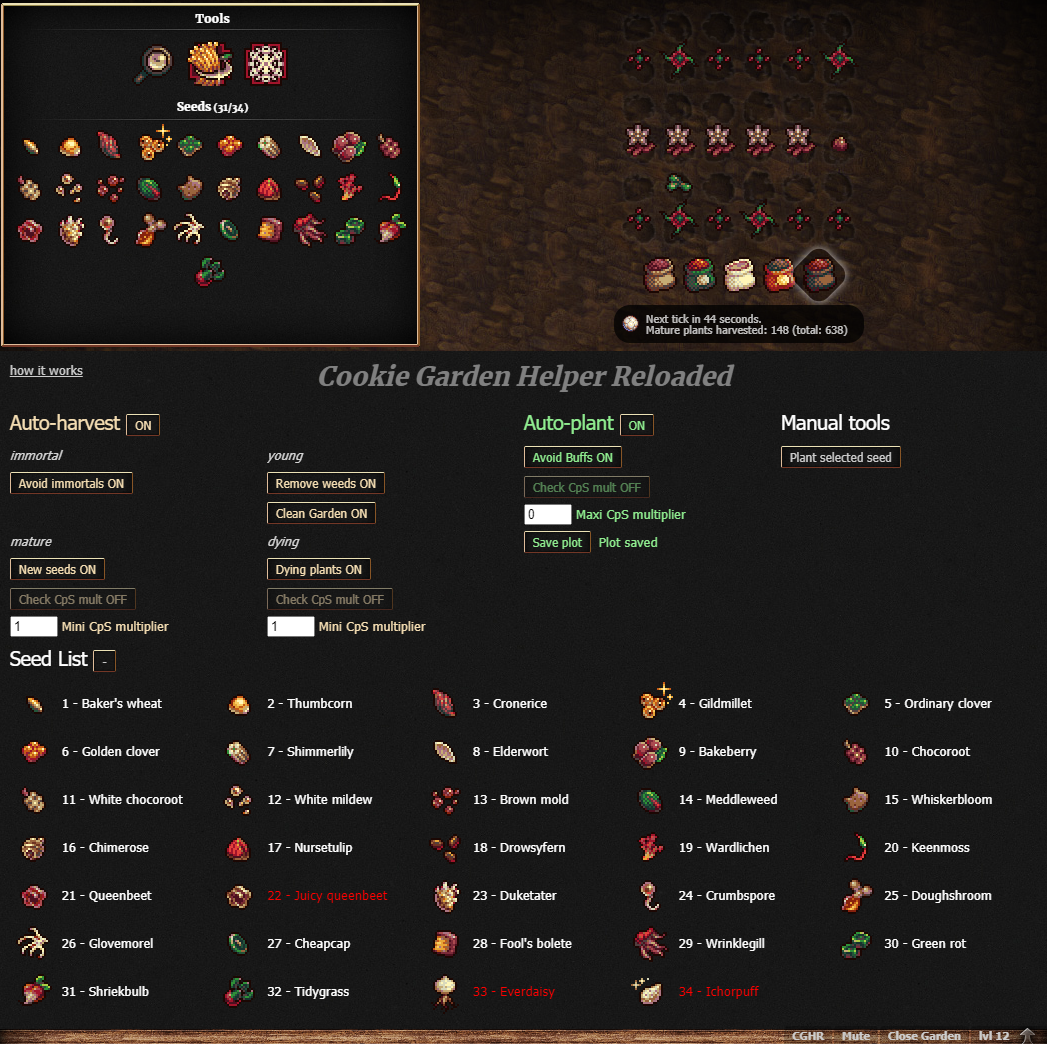
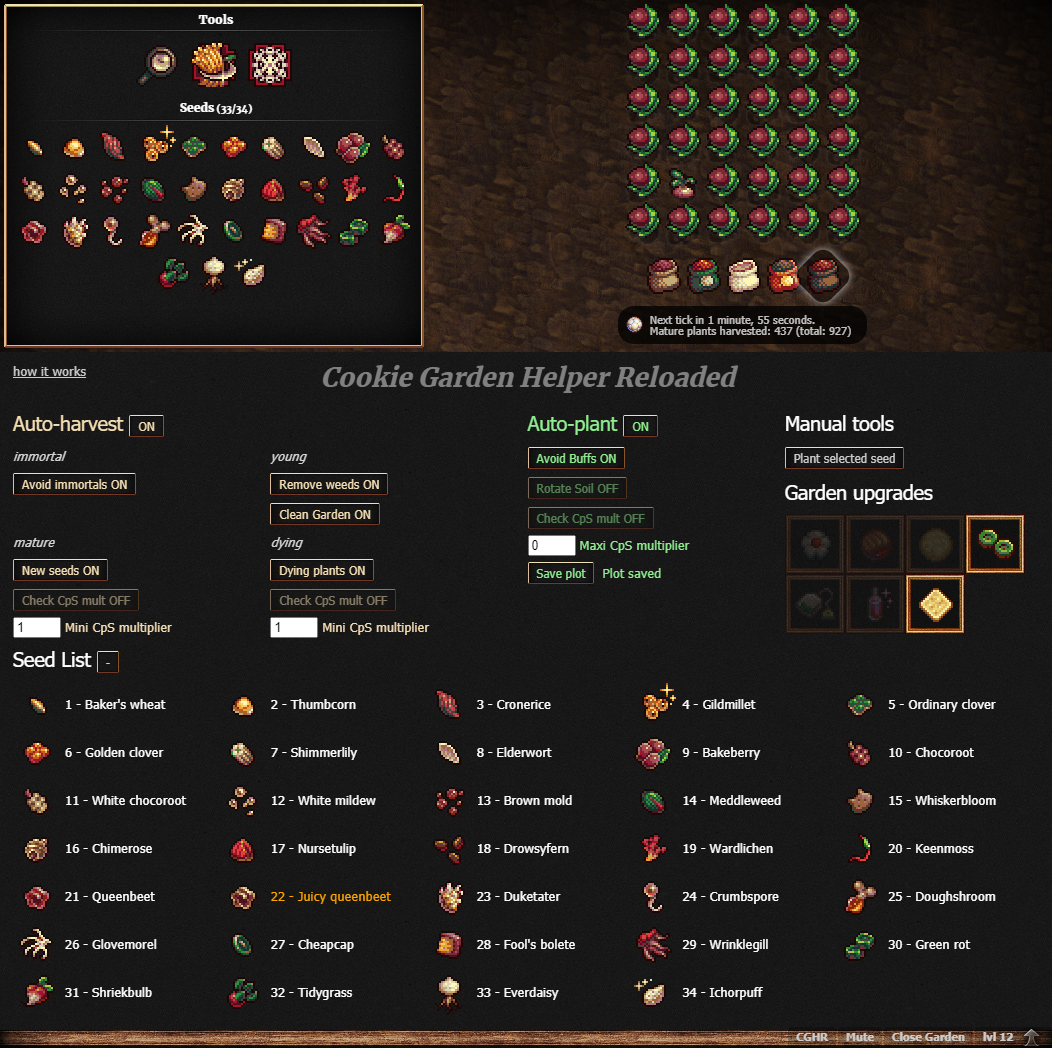
1.3 deployment

diff --git a/CookieGardenHelper-reloaded/main.js b/CookieGardenHelper-reloaded/main.js
@@ -28,6 +28,7 @@ Game.registerMod("cookiegardenhelperreloaded",{
 	},
 	stop:function() { window.clearInterval(this.timerId); },
 	handleSeedClick:function(seedId) {
+		if(!this.parentsUnlocked(seedId))return;
 		this.config.savedPlot=this.buildMutationPlotData(seedId);
 	},
 	handleChange:function(key, value) {
@@ -39,7 +40,7 @@ Game.registerMod("cookiegardenhelperreloaded",{
 		this.save();
 	},
 	toggleSeedList:function(key) {
-		var x = this.doc.elId("toto");
+		var x = this.doc.elId("seedListDiv");
 		if (x.style.display === "none") {
 			x.style.display = "block";
 			this.doc.elId('cookiegardenhelperreloadedToggleSeedList').innerHTML='-';
@@ -365,6 +366,13 @@ Game.registerMod("cookiegardenhelperreloaded",{
 				  </p>
 				  <p>
 					${this.button(
+					  'autoPlantRotateSoil', 'Rotate Soil',
+					  'Use Wood chips if mostly growing, Clay otherwise', true,
+					  this.config.autoPlantRotateSoil
+					)}
+				  </p>
+				  <p>
+					${this.button(
 					  'autoPlantCheckCpSMult', 'Check CpS mult',
 					  'Check the CpS multiplier before planting (see below)', true,
 					  this.config.autoPlantCheckCpSMult
@@ -391,10 +399,14 @@ Game.registerMod("cookiegardenhelperreloaded",{
 					'Plant the selected seed on all empty tiles')}
 				  </p>
 				</div>
+				<div class="cookieGardenHelperReloadedPanel" id="gardenUpgradesPanel">
+				  <h2>Garden upgrades</h2>
+				  <p id="upgradeListDiv" style="">${this.getUpgradeListDisplay()}</p>
+				</div>
 				<div class="cookieGardenHelperReloadedSeedPanel" id="seedList">
 				  <h2>Seed List ${this.button('ToggleSeedList', '+', 
-					'Display or hide seed list')}</h2>
-				  <p id="toto" style="display:none">${this.getSeedListDisplay()}</p>
+					'Display or hide seed list. In orange, what could be unlocked. In red, what cannot.')}</h2>
+				  <p id="seedListDiv" style="display:none">${this.getSeedListDisplay()}</p>
 				</div>
 			  </div>
 			</div>`);
@@ -437,15 +449,25 @@ Game.registerMod("cookiegardenhelperreloaded",{
 			this.toggleSeedList(this);
 		}
 	},
+	getUpgradeListDisplay:function() {
+		str = "";
+		if(this.isActive()){
+			for(let i=470;i<=476;i++){
+				var ic = Game.UpgradesById[i].icon;
+				str += `
+				<div class="crate upgrade${Game.UpgradesById[i].bought==1?' enabled':''}" onmouseout="Game.tooltip.shouldHide=1;" onmouseover="Game.tooltip.dynamic=1;Game.tooltip.draw(this,function(){return Game.crateTooltip(Game.UpgradesById[${i}],'store');},'top');Game.tooltip.wobble();" id="upg-${i}" style="${Game.UpgradesById[i].unlocked==0?'opacity:.3;':''}width:48px;height:48px;background-image: url(img/icons.png);background-position: ${-1*ic[0]*48}px ${-1*ic[1]*48}px;"></div>`;
+			}
+		}
+		return str;
+	},
 	getSeedListDisplay:function() {
 		str = "";
-		
 		if(this.isActive()){
 			for (let i = 1; i <= this.minigame().plantsById.length; i++){
 				var p = this.getPlant(i)
 				str += `<div class="cookieGardenHelperReloadedSmallSubPanel seedListItem" id="plant-${i}">
 					<div id="gardenSeedIcon-${i}" class="cookieGardenHelperReloadedGardenSeed shadowFilter" style="background-position:0px ${this.getSeedIconY(i)}px;"></div>
-					<div style="display:inline-block;${p.unlocked==0 ? 'color:red;' : ''}">${i} - ${p.name}</div>
+					<div style="display:inline-block;${p.unlocked==1?'':(!this.parentsUnlocked(i)?'color:red;':'color:orange;')}">${i} - ${p.name}</div>
 				</div>`;
 			}
 		}
@@ -622,6 +644,13 @@ Game.registerMod("cookiegardenhelperreloaded",{
 		}
 		return [[[0,0],[0,0],[0,0],[0,0],[0,0],[0,0]],[[0,0],[0,0],[0,0],[0,0],[0,0],[0,0]],[[0,0],[0,0],[0,0],[0,0],[0,0],[0,0]],[[0,0],[0,0],[0,0],[0,0],[0,0],[0,0]],[[0,0],[0,0],[0,0],[0,0],[0,0],[0,0]],[[0,0],[0,0],[0,0],[0,0],[0,0],[0,0]]];
 	},
+	parentsUnlocked:function(seedId) {
+		var parents = this.getPlantParents(seedId);
+		var p1 = parents[0]
+		var p2 = (parents.length>1?parents[1]:parents[0]);
+		
+		return this.isSeedUnlocked(p1+1) && this.isSeedUnlocked(p2+1)
+	},
 	buildMutationPlotData:function(seedId) {
 		var m = this.getPlantParents(seedId);
 		
@@ -682,6 +711,38 @@ Game.registerMod("cookiegardenhelperreloaded",{
 	isActive:function(){ return this.minigame() !== undefined; },
 	templace:function(){
 		return 1
+	},
+	setCorrectSoil:function(){
+		var M = this.minigame();
+		if(!M.freeze){
+			var y = 0;
+			var m = 0;
+			for (let x=0; x<6; x++) {
+				for (let y=0; y<6; y++) {
+					if(!this.tileIsEmpty(x, y)){
+						let tile = this.getTile(x, y);
+						let stage = this.getPlantStage(tile);
+						if(stage=='young'){
+							y++;
+						}else{
+							m++;
+						}
+					}
+				}
+			}
+			
+			var clay = 2;
+			var woodchips = 4;
+			var targetSoil = y>m?woodchips:clay;
+			
+			if( M.soil!=targetSoil && M.parent.amount>=M.soilsById[targetSoil].req && M.nextSoil<Date.now() ){
+				M.nextSoil=Date.now()+(Game.Has('Turbo-charged soil')?1:(1000*60*10));
+				M.toCompute=true;
+				M.soil=targetSoil;
+				M.computeStepT();
+				for (var i in M.soils){var it=M.soils[i];if (it.id==M.soil){l('gardenSoil-'+it.id).classList.add('on');}else{l('gardenSoil-'+it.id).classList.remove('on');}}
+			}
+		}
 	},
 	CpSMult:function(){
 		var res = 1
@@ -793,9 +854,13 @@ Game.registerMod("cookiegardenhelperreloaded",{
 	run:function() {
 		if(this.isActive()){
 			//Display Seed List
-			this.doc.elId('toto').textContent = '';
-			this.doc.elId('toto').innerHTML = this.getSeedListDisplay();
+			this.doc.elId('seedListDiv').textContent = '';
+			this.doc.elId('seedListDiv').innerHTML = this.getSeedListDisplay();
 			this.setSeedListTooltips();
+
+			//Display Upgrades
+			this.doc.elId('upgradeListDiv').textContent = '';
+			this.doc.elId('upgradeListDiv').innerHTML = this.getUpgradeListDisplay();
 			
 			// sacrifice garden
 			if(!this.oldConvert){
@@ -846,6 +911,9 @@ Game.registerMod("cookiegardenhelperreloaded",{
 					this.plantSeed(seedId - 1, x, y);
 				}
 			  }
+			  if (this.config.autoPlantRotateSoil){
+				  this.setCorrectSoil();
+			  }
 			});
 		}
 	},
@@ -870,6 +938,7 @@ Game.registerMod("cookiegardenhelperreloaded",{
 			autoHarvestMiniCpSMultDying: { value: 1, min: 0 },
 			autoPlant: false,
 			autoPlantAvoidBuffs: true,
+			autoPlantRotateSoil: false,
 			autoPlantCheckCpSMult: false,
 			autoPlantMaxiCpSMult: { value: 0, min: 0 },
 			savedPlot: [],

diff --git a/README.md b/README.md
@@ -59,6 +59,10 @@ below or equal to the one specified at **Maxi CpS multiplier**
 
 ***Note:*** mouse over the message *Plot saved*, to see what was saved.
 
+The option **Rotate Soil** :
+  - **ON** - The soil is automatically changed to clay if there are more mature seeds than young. Or to wood chips if there are more young seeds.
+  - **OFF** - The soild will not change on its own.
+
 ### Manual tools
 
 This section is pretty obvious. Only one tool is there for now:
@@ -68,9 +72,13 @@ This section is pretty obvious. Only one tool is there for now:
   - click this button to fill all the empty tiles of your plot
   - (don't forget to deselect the seed)
 
+### Garden upgrades
+
+This section displays all garden upgrades, shows which ones were bought, or unlocked. The tooltip works and shows how to unlock the upgrade.
+
 ### Seed List
 
-This section displays all seeds in the game, in red if you have yet to unlock it.
+This section displays all seeds in the game, in orange if not unlocked yet, but possible, in red if you cannot unlock it yet (parents are not unlocked).
 
 **Hovering** on its name will display suggested seed mutation layout.
 
@@ -112,6 +120,14 @@ The rest of your configuration will remain.
 ### 1.2
 
 `New "Avoid Buffs" button to save some cookies when planting`
+
+### 1.3
+
+`New "Rotate Soil" button`
+
+`New "Garden upgrades" section`
+
+`A fix to prevent planting not unlocked seeds`
 
 ## Issues
 
